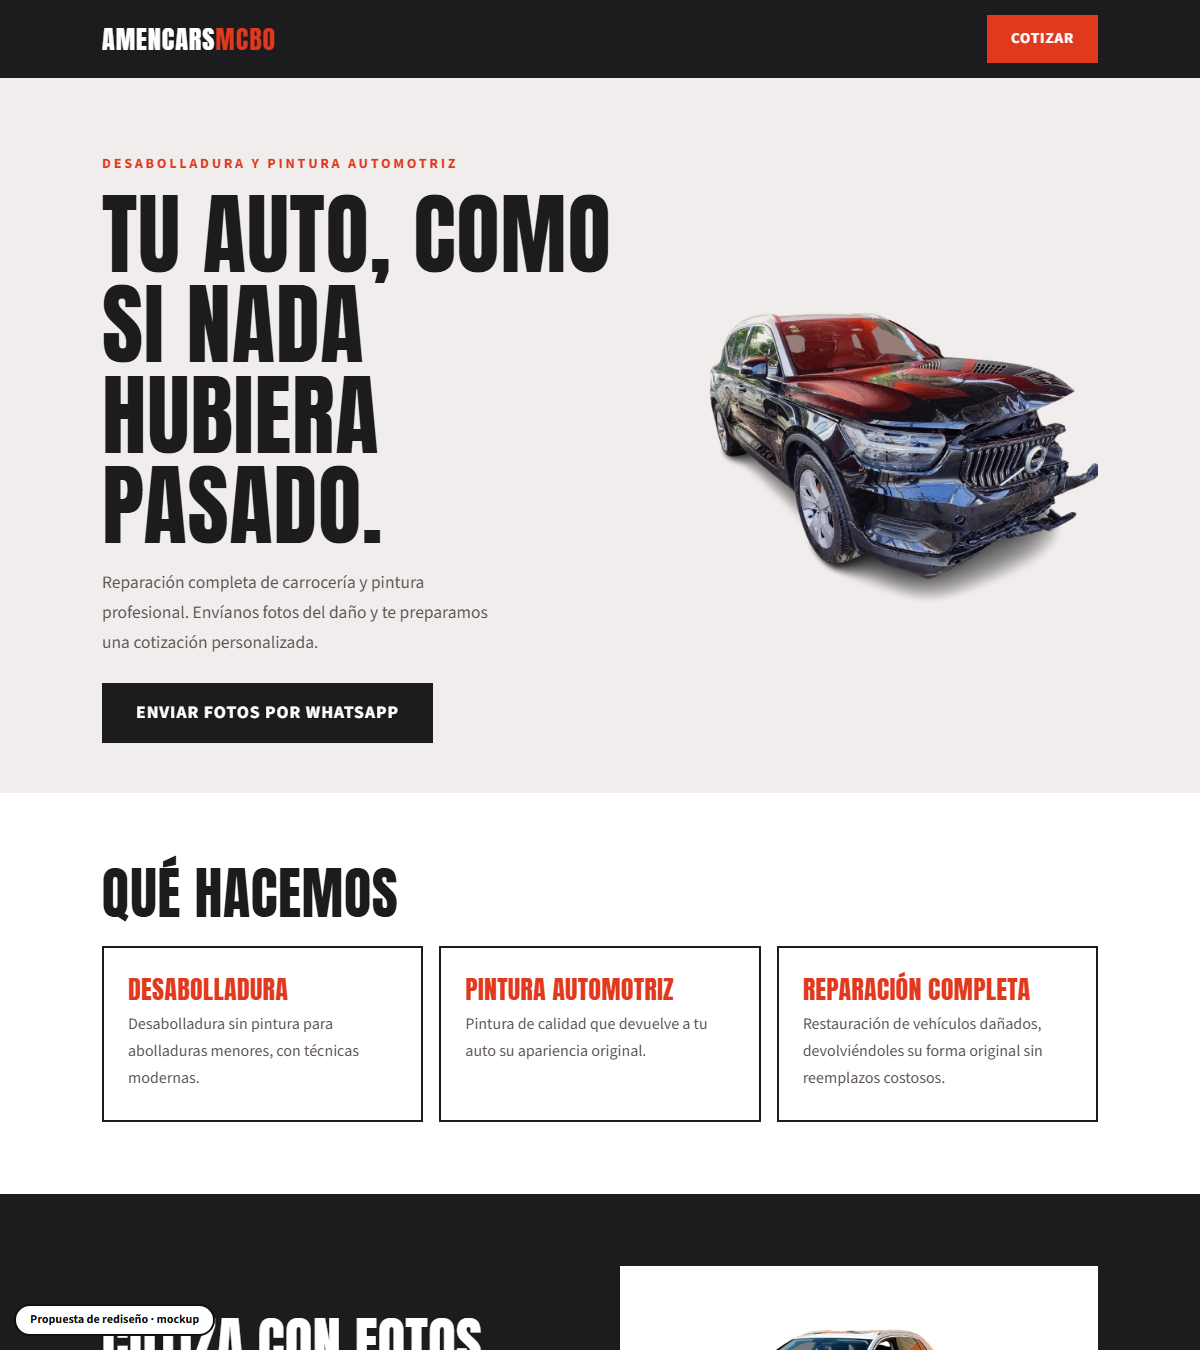
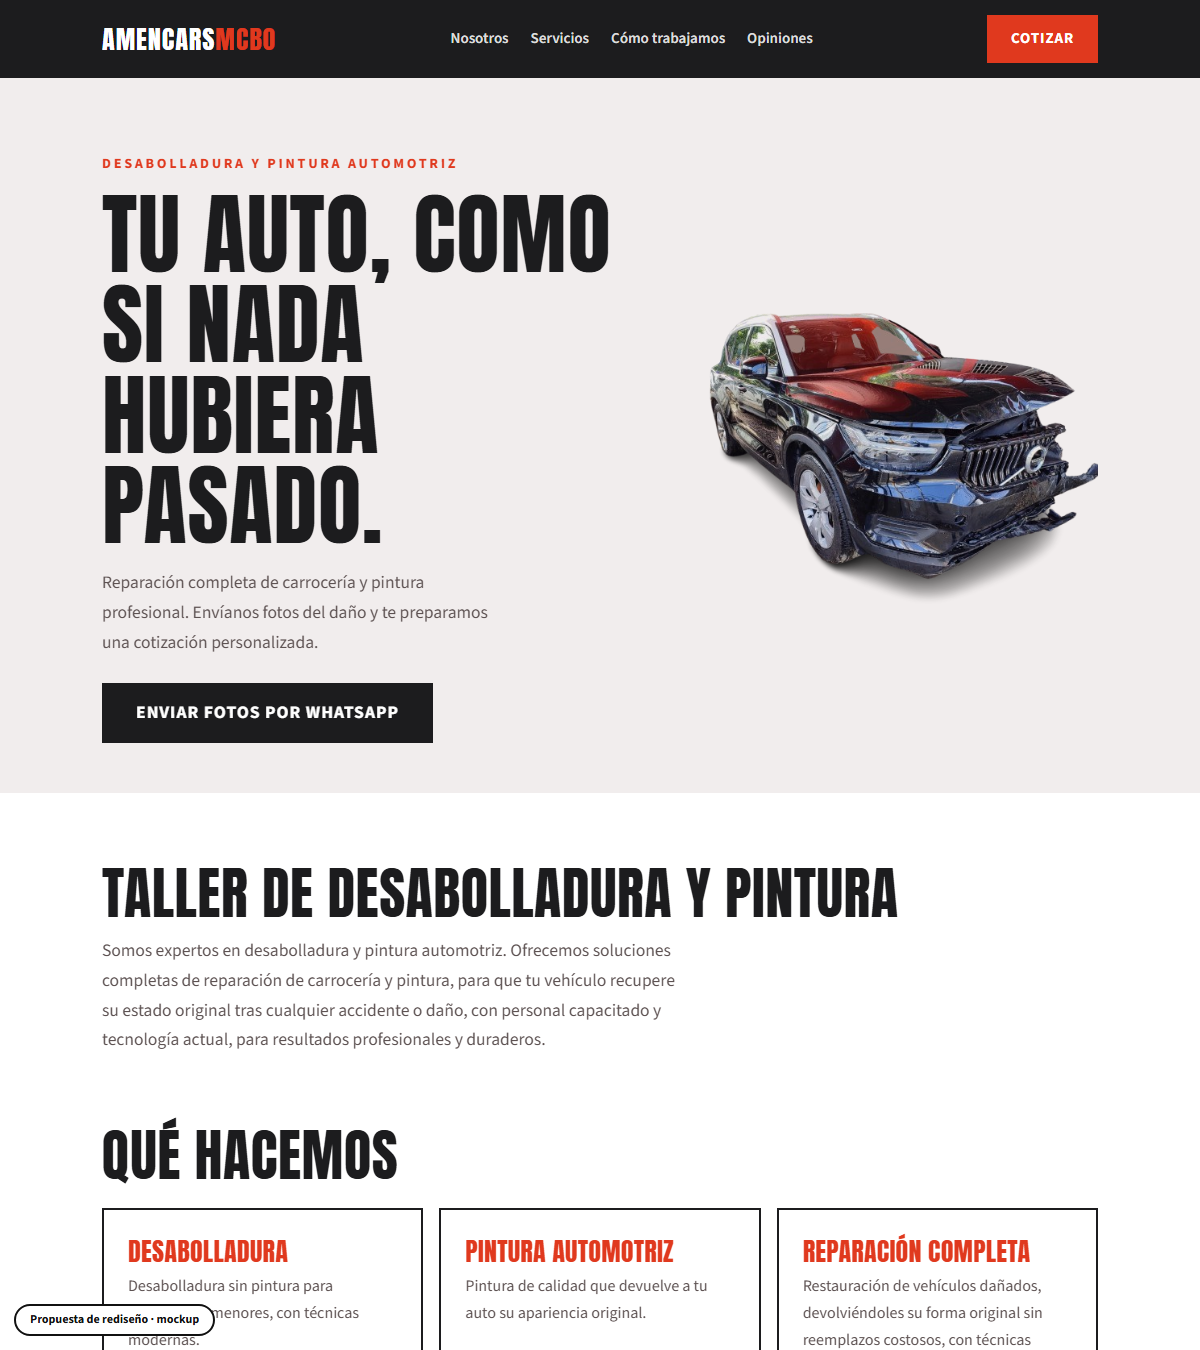
Mockup: amencars-desabolladura-renca

diff --git a/amencars-desabolladura-renca/index.html b/amencars-desabolladura-renca/index.html
@@ -6,12 +6,12 @@
 <link href="https://fonts.googleapis.com/css2?family=Anton&family=Source+Sans+3:wght@400;600;700&display=swap" rel="stylesheet">
 <style>
 :root{--ink:#1c1c1e;--steel:#5d5252;--red:#e0391e;--mist:#f1eded;--line:#d9d2d2}
-*{box-sizing:border-box;margin:0}html{scroll-behavior:smooth}
+*{box-sizing:border-box;margin:0}html{scroll-behavior:smooth;scroll-padding-top:90px}
 @media(prefers-reduced-motion:reduce){html{scroll-behavior:auto}}
 body{background:#fff;color:var(--ink);font:400 17.5px/1.7 'Source Sans 3',sans-serif}
 .wrap{max-width:1040px;margin:0 auto;padding:0 22px}
 h1,h2,h3{font-family:Anton,sans-serif;font-weight:400;line-height:1.02;text-transform:uppercase;letter-spacing:.01em}
-header{background:var(--ink);color:#fff}header .wrap{display:flex;justify-content:space-between;align-items:center;height:78px;gap:12px}
+header{background:var(--ink);color:#fff;position:sticky;top:0;z-index:20}nav{display:flex;gap:22px;font-weight:600;font-size:15px}nav a{color:#ddd;text-decoration:none}nav a:hover{color:var(--red)}header .wrap{display:flex;justify-content:space-between;align-items:center;height:78px;gap:12px}
 .brand{font:400 26px Anton;letter-spacing:.04em;text-transform:uppercase}.brand i{font-style:normal;color:var(--red)}
 header a.b{background:var(--red);color:#fff;text-decoration:none;padding:11px 24px;font-weight:700;font-size:15px;text-transform:uppercase;letter-spacing:.06em}
 header a.b:hover{background:#fff;color:var(--ink)}
@@ -31,15 +31,15 @@ section{padding:72px 0}h2{font-size:clamp(32px,5vw,56px);margin-bottom:14px}
 .contact{text-align:center}.contact a.l{display:block;font:400 clamp(40px,7vw,80px) Anton;color:var(--red);text-decoration:none;margin:8px 0}.contact a.l:hover{color:var(--ink)}
 footer{padding:22px 0 90px;text-align:center;font-size:13px;color:var(--steel)}
 .mock{position:fixed;left:14px;bottom:14px;background:#fff;color:#111;border:2px solid #111;font:700 12px/1 'Source Sans 3';padding:8px 14px;border-radius:30px;z-index:9}
-@media(max-width:820px){.hero .wrap,.how .row,.g3{grid-template-columns:1fr}.hero .wrap{padding:44px 22px 30px}}
+.steps{display:grid;grid-template-columns:repeat(4,1fr);gap:16px;margin-top:26px;counter-reset:s}.steps div{border-top:4px solid var(--red);padding-top:14px}.steps div:before{counter-increment:s;content:counter(s);font:400 44px Anton;color:var(--red);display:block}.steps b{font:400 22px Anton;text-transform:uppercase;display:block}.steps span{font-size:15.5px;color:#cfc8c8}.rev{display:grid;grid-template-columns:repeat(3,1fr);gap:16px;margin-top:26px}.rev blockquote{background:var(--mist);padding:26px 24px;border-left:5px solid var(--red);font-size:16px;color:#3a3333}.rev cite{display:block;margin-top:10px;font:600 13px "Source Sans 3";letter-spacing:.1em;text-transform:uppercase;color:var(--steel);font-style:normal}.score{font:400 64px Anton;color:var(--red);line-height:1}.brands{display:flex;flex-wrap:wrap;gap:10px;margin-top:16px}.brands span{border:2px solid var(--ink);padding:4px 16px;font-weight:700;font-size:14px;letter-spacing:.06em;text-transform:uppercase}@media(max-width:820px){.steps,.rev{grid-template-columns:1fr 1fr}.hero .wrap,.how .row,.g3{grid-template-columns:1fr}.hero .wrap{padding:44px 22px 30px}}
 </style></head><body>
-<header><div class="wrap"><div class="brand">Amencars<i>mcbo</i></div><a class="b" href="#contacto">Cotizar</a></div></header>
+<header><div class="wrap"><div class="brand">Amencars<i>mcbo</i></div><nav><a href="#nosotros">Nosotros</a><a href="#servicios">Servicios</a><a href="#proceso">Cómo trabajamos</a><a href="#opiniones">Opiniones</a></nav><a class="b" href="https://wa.me/56935724830?text=Hola%2C%20quisiera%20cotizar">Cotizar</a></div></header>
 <div class="hero"><div class="wrap"><div><small>Desabolladura y pintura automotriz</small><h1>Tu auto, como si nada hubiera pasado.</h1><p>Reparación completa de carrocería y pintura profesional. Envíanos fotos del daño y te preparamos una cotización personalizada.</p><a class="btn" href="https://wa.me/56979924271?text=Hola%2C%20quisiera%20cotizar%20la%20reparaci%C3%B3n%20de%20mi%20auto">Enviar fotos por WhatsApp</a></div><img src="assets/aa-removebg-preview.png" alt="Vehículo con daño en la parte delantera"></div></div>
-<section><div class="wrap"><h2>Qué hacemos</h2><div class="g3">
+<section id="nosotros"><div class="wrap"><h2>Taller de desabolladura y pintura</h2><p style="max-width:68ch;color:var(--steel)">Somos expertos en desabolladura y pintura automotriz. Ofrecemos soluciones completas de reparación de carrocería y pintura, para que tu vehículo recupere su estado original tras cualquier accidente o daño, con personal capacitado y tecnología actual, para resultados profesionales y duraderos.</p></div></section><section id="servicios" style="padding-top:0"><div class="wrap"><h2>Qué hacemos</h2><div class="g3">
 <div><h3>Desabolladura</h3><p>Desabolladura sin pintura para abolladuras menores, con técnicas modernas.</p></div>
 <div><h3>Pintura automotriz</h3><p>Pintura de calidad que devuelve a tu auto su apariencia original.</p></div>
-<div><h3>Reparación completa</h3><p>Restauración de vehículos dañados, devolviéndoles su forma original sin reemplazos costosos.</p></div></div></div></section>
-<section class="how"><div class="wrap row"><div><h2>Cotiza con fotos</h2><p>Sácale fotos a las abolladuras o daños de la carrocería y envíalas. El equipo evalúa las imágenes y entrega una cotización personalizada lo antes posible.</p><div class="tags"><span>Garantía</span><span>Pulido</span><span>Evaluación de daños</span></div></div><img src="assets/AAAA-removebg-preview.png" alt="Vehículo con daño lateral"></div></section>
-<section class="contact" id="contacto"><div class="wrap"><h2>Pide tu presupuesto</h2><a class="l" href="https://wa.me/56935724830">+56 9 3572 4830</a><p>Lunes a viernes, 8:30 a 19:00 · Av. Fresia 1921, Conchalí / Renca<br><a style="color:var(--ink)" href="mailto:cotizar@amencarsmcbo.cl">cotizar@amencarsmcbo.cl</a> · <a style="color:var(--ink)" href="mailto:contacto@amencarsmcbo.cl">contacto@amencarsmcbo.cl</a></p></div></section>
+<div><h3>Reparación completa</h3><p>Restauración de vehículos dañados, devolviéndoles su forma original sin reemplazos costosos, con técnicas avanzadas de desabolladura y pintura.</p></div><div><h3>Personal calificado</h3><p>Expertos capacitados para reparar y restaurar cualquier tipo de daño en la carrocería.</p></div><div><h3>Servicio rápido</h3><p>Desabolladura sin pintura para abolladuras menores y pintura de calidad en el menor tiempo posible.</p></div><div><h3>Asistencia 24/7</h3><p>Disponibles ante emergencias de reparación de carrocería y pintura.</p></div></div><p style="margin-top:26px;color:var(--steel)">Trabajan todas las marcas.</p></div></section>
+<section class="how" id="proceso"><div class="wrap"><h2>Cómo trabajamos</h2><div class="steps"><div><b>Envía fotos</b><span>Del daño en la carrocería de tu vehículo.</span></div><div><b>Evaluamos</b><span>El equipo revisa las imágenes y evalúa el daño.</span></div><div><b>Presupuesto</b><span>Detallado y personalizado, lo antes posible.</span></div><div><b>Reparación</b><span>Con garantía y pulido final. Los clientes cuentan que reciben fotos del avance.</span></div></div></div></section><section class="how" style="padding-top:0;border-top:1px solid #333"><div class="wrap row"><div><h2>Cotiza con fotos</h2><p>Sácale fotos a las abolladuras o daños de la carrocería y envíalas. El equipo evalúa las imágenes y entrega una cotización personalizada lo antes posible.</p><div class="tags"><span>Garantía</span><span>Pulido</span><span>Evaluación de daños</span></div></div><img src="assets/AAAA-removebg-preview.png" alt="Vehículo con daño lateral"></div></section>
+<section id="opiniones"><div class="wrap"><h2>Lo que dicen sus clientes</h2><p style="color:var(--steel)"><span class="score">5,0</span> en Google · más de 120 reseñas</p><div class="rev"><blockquote>Excelente servicio. Me dieron un plazo de 3 días para el retiro, pero entregaron el trabajo mucho antes. Va enviando fotos del paso a paso.<cite>Reseña en Google</cite></blockquote><blockquote>El auto quedó como si nunca le hubiera pasado nada. Me detalló todo el proceso y fue transparente en lo que se requirió.<cite>Reseña en Google</cite></blockquote><blockquote>Vehículo ingresó un sábado y salió el jueves siguiente, cumpliendo los plazos comprometidos, informando el estado de los trabajos.<cite>Reseña en Google</cite></blockquote></div></div></section><section class="contact" id="contacto"><div class="wrap"><h2>Pide tu presupuesto</h2><a class="l" href="https://wa.me/56935724830">+56 9 3572 4830</a><p>Lunes a viernes, 8:30 a 19:00 · Instagram y WhatsApp · Av. Fresia 1921, Conchalí / Renca<br><a style="color:var(--ink)" href="mailto:cotizar@amencarsmcbo.cl">cotizar@amencarsmcbo.cl</a> · <a style="color:var(--ink)" href="mailto:contacto@amencarsmcbo.cl">contacto@amencarsmcbo.cl</a></p></div></section>
 <footer>AMENCARSMCBO · DESABOLLADURA Y PINTURA</footer>
 <div class="mock">Propuesta de rediseño · mockup</div></body></html>
